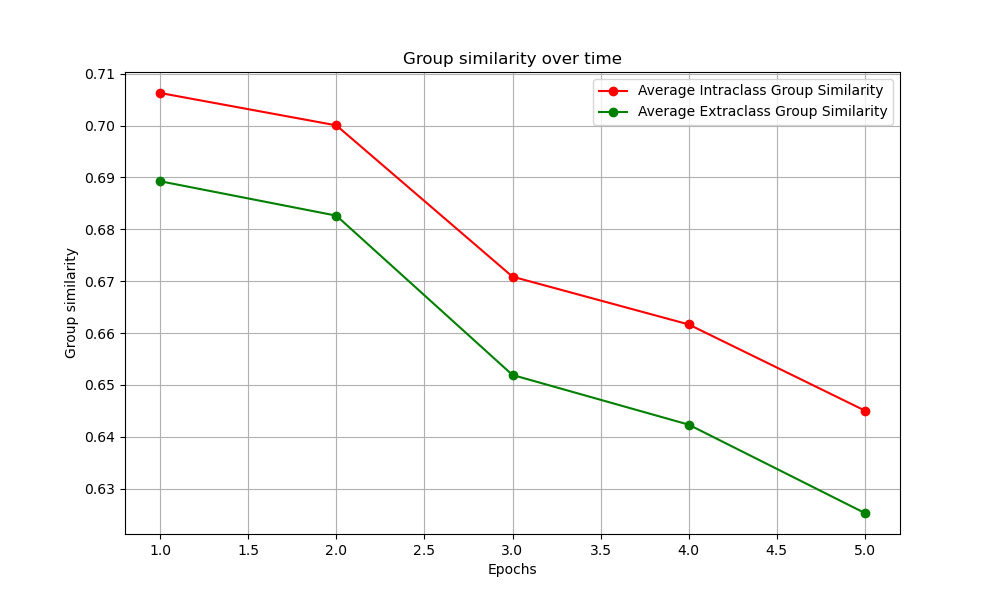
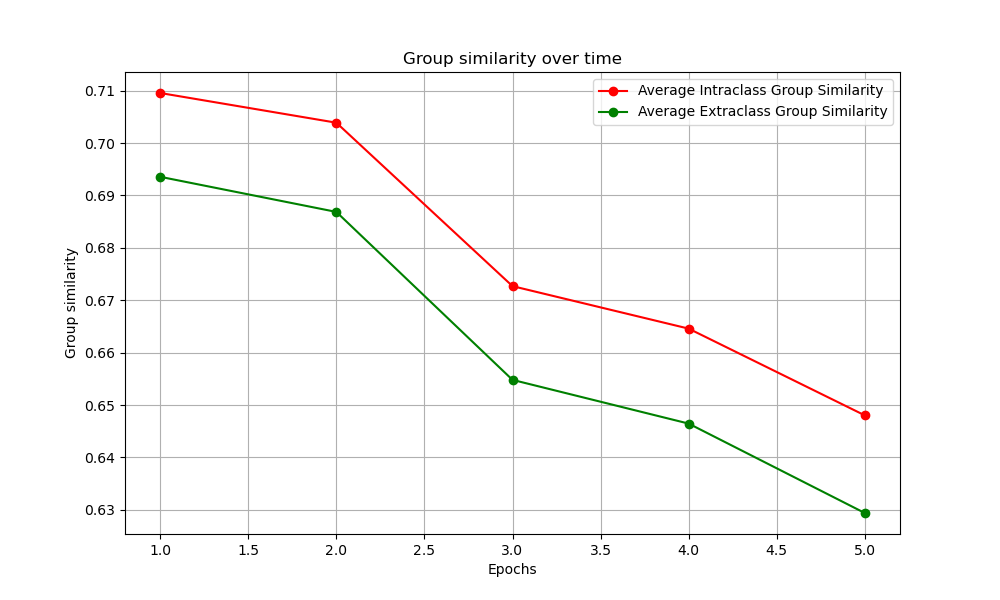
refactoring and sorting

diff --git a/script_embed_metrics.py b/script_embed_metrics.py
@@ -7,9 +7,10 @@ from sklearn.manifold import TSNE
 from sklearn.decomposition import PCA
 import torch
 from matplotlib.patches import Rectangle
+from tqdm import tqdm
 
 # Heat map of the cosine similarity matrix. Ideally groups should have high similarity. 
-def plot_similarity_heatmap(word_grid, sim_matrix):
+def plot_similarity_heatmap(word_grid, sim_matrix, pth):
     words = word_grid.flatten()
     plt.figure(figsize=(10, 8))
 
@@ -34,9 +35,9 @@ def plot_similarity_heatmap(word_grid, sim_matrix):
     plt.title("Pairwise Cosine Similarity of Word Embeddings", fontsize=14)
     plt.xticks(rotation=45, ha='right')
     plt.tight_layout()
-    plt.show()
+    plt.savefig(f"/home/jamesbarrett_umass_edu/cs685proj-new/conventional/results/best_model/embedMetrics/{pth}/heatmap")
     
-def avg_plot_similarity_heatmap(sim_matrix):
+def avg_plot_similarity_heatmap(sim_matrix, pth):
     """
     Plots an average 16x16 similarity matrix with color-coded rectangles for group blocks.
     Assumes 4 groups of 4 items each.
@@ -62,11 +63,11 @@ def avg_plot_similarity_heatmap(sim_matrix):
 
     plt.title("Average Pairwise Cosine Similarity of Word Embeddings (Grouped Blocks)", fontsize=14)
     plt.tight_layout()
-    plt.show()
+    plt.savefig(f"/home/jamesbarrett_umass_edu/cs685proj-new/conventional/results/best_model/embedMetrics/{pth}/avgPairwiseCosSim")
 
 
 # Plots the embeddings on 2D after reducing the dimensionality. Ideally the groups should be close together, but in 2D hard to say.
-def plot_embeddings_2d(word_grid, embeddings, method='tsne'):
+def plot_embeddings_2d(word_grid, embeddings, pth, method='tsne'):
     words = word_grid.flatten()
     flat_embeddings = embeddings.reshape(-1, embeddings.shape[-1])
 
@@ -95,26 +96,26 @@ def plot_embeddings_2d(word_grid, embeddings, method='tsne'):
     plt.ylabel("Component 2")
     plt.grid(True)
     plt.tight_layout()
-    plt.show()
+    plt.savefig(f"/home/jamesbarrett_umass_edu/cs685proj-new/conventional/results/best_model/embedMetrics/{pth}/2Dembeds")
 
 # Compares the distribution of in group and out group similarities. Generally out group are much more spread out.
-def plot_similarity_distributions(intra_group_sims, out_group_sims):
+def plot_similarity_distributions(intra_group_sims, out_group_sims, pth):
     data = (
         [("Intra-group", sim) for sim in intra_group_sims] +
         [("Out-group", sim) for sim in out_group_sims]
     )
     labels, sims = zip(*data)
-    sns.violinplot(x=labels, y=sims, inner="box", palette="pastel")
+    sns.violinplot(x=labels, y=sims, inner="box", palette="pastel", hue=labels)
     plt.title("Distribution of Cosine Similarities")
     plt.ylabel("Cosine Similarity")
     plt.tight_layout()
-    plt.show()
+    plt.savefig(f"/home/jamesbarrett_umass_edu/cs685proj-new/conventional/results/best_model/embedMetrics/{pth}/avgSimDistribution")
 
 
 #call this with either string numpy array wordgrids of shape (n, 4, 4)
 # if n=1 it will output the groupings and all plots
 # if n>1 it will output the plots that make sense
-def compute_group_metrics(model, tokenizer, word_grids, plot=False):
+def compute_group_metrics(model, tokenizer, word_grids, pth, plot=False):
     # Ensure input is (n, 4, 4)
     if word_grids.ndim == 2:
         word_grids = word_grids[np.newaxis, :, :]
@@ -126,7 +127,7 @@ def compute_group_metrics(model, tokenizer, word_grids, plot=False):
     all_out_sims = []
     all_sim_matrices = []
 
-    for game_idx in range(num_games):
+    for game_idx in tqdm(range(num_games)):
         word_grid = word_grids[game_idx]
         embeddings = np.zeros((4, 4, hidden_size))
 
@@ -170,12 +171,12 @@ def compute_group_metrics(model, tokenizer, word_grids, plot=False):
     if plot:
         avg_sim_matrix = np.mean(np.array(all_sim_matrices), axis=0)
         if num_games == 1:
-            plot_embeddings_2d(word_grids[0], embeddings)
-            plot_similarity_heatmap(word_grids[0], avg_sim_matrix)
-            plot_similarity_distributions(avg_intra, all_out_sims.flatten())
+            plot_embeddings_2d(word_grids[0], embeddings, pth)
+            plot_similarity_heatmap(word_grids[0], avg_sim_matrix, pth)
+            plot_similarity_distributions(avg_intra, all_out_sims.flatten(), pth)
         else:
-            avg_plot_similarity_heatmap(avg_sim_matrix)
-            plot_similarity_distributions(avg_intra, all_out_sims.flatten())
+            avg_plot_similarity_heatmap(avg_sim_matrix, pth)
+            plot_similarity_distributions(avg_intra, all_out_sims.flatten(), pth)
 
     result = {
         "avg_intra_group_similarity": avg_intra.mean(),

diff --git a/plot_embed_metrics.py b/plot_embed_metrics.py
@@ -8,8 +8,9 @@ import sys
 import json
 import math
 import matplotlib.pyplot as plt
-from embed_metrics import getAvgEmbedMetric
+from metrics import compute_group_metrics
 import gc
+import numpy as np
 import torch
 
 # set paths for inputs and outputs
@@ -21,7 +22,8 @@ embed_plot_path = f"/home/jamesbarrett_umass_edu/cs685proj-new/conventional/resu
 with open(unshuffled_dataset_path, 'r') as file:
     data = json.load(file)
 rawWordLists = [item['allwords'] for item in data]
-testWordLists = rawWordLists[math.ceil(len(rawWordLists)*0.9):]
+testWordLists = np.array(rawWordLists[math.ceil(len(rawWordLists)*0.9):]) # (N, 1, 16)
+testWordLists = np.array(testWordLists).reshape((len(testWordLists), 4, 4)) # (N, 4, 4)
 print("dataset loaded")
 
 # get values for grp sim
@@ -37,12 +39,14 @@ for ckpt_end_path in os.listdir(ckpt_dir_path):
             dtype = None,
             load_in_4bit = True, 
         )
-        return getAvgEmbedMetric(testWordLists[:3], model, tokenizer, pth)
+        os.makedirs(f"/home/jamesbarrett_umass_edu/cs685proj-new/conventional/results/best_model/embedMetrics/{pth}", exist_ok=True)
+        results = compute_group_metrics(model, tokenizer, testWordLists, pth, plot=True)
+        return results['avg_intra_group_similarity'], results['avg_out_group_similarity']
     avgIntraGrpSim, avgExtraGrpSim = run_model(ckpt_end_path)
     avgIntraGrpSims.append(avgIntraGrpSim)
     avgExtraGrpSims.append(avgExtraGrpSim)
     epochs.append(epochNo)
-    print(f"calculated values for checkpoint {epochNo}")
+    print(f"calculated values for epoch {epochNo}")
     epochNo += 1
     gc.collect()
     torch.cuda.empty_cache()

diff --git a/conventional/plot_loss.py b/conventional/plot_loss.py
@@ -1,6 +1,6 @@
 # args
-LOGPATH = "/home/jamesbarrett_umass_edu/cs685proj-new/conventional/results/100exampleGridSearch/checkpoints/20250504-133812/checkpoint-20/trainer_state.json"
-OUT_PATH = f"/home/jamesbarrett_umass_edu/cs685proj-new/conventional/results/100exampleGridSearch/loss_plots/20250504-133812.png"
+LOGPATH = "/home/jamesbarrett_umass_edu/cs685proj-new/conventional/results/100exampleGridSearch/checkpoints/20250504-133501/checkpoint-20/trainer_state.json"
+OUT_PATH = f"/home/jamesbarrett_umass_edu/cs685proj-new/conventional/results/100exampleGridSearch/loss_plots/20250504-133501.png"
 
 # imports
 import matplotlib.pyplot as plt
@@ -31,7 +31,7 @@ plt.figure(figsize=(10, 6))
 plt.plot(np.arange(len(train_losses)), train_losses, label="Training Loss", color="red", marker='o')
 plt.plot(np.arange(len(eval_losses)), eval_losses, label="Validation Loss", color="green", marker='o')
 plt.xlabel("Epochs")
-plt.ylabel("Log Loss")
+plt.ylabel("Loss")
 plt.title("Training and Validation Loss")
 plt.legend()
 plt.grid(True)

diff --git a/data/make_ds.py b/data/make_ds.py
@@ -78,7 +78,7 @@ def make_ds(file, save_to_disk=True):
         ds.save_to_disk("connections_ds")
     return ds
 
-def main(file="output.json"):
+def main(file="shuffledJSON.json"):
     ds = make_ds(file)
 
     for i in range(5):
